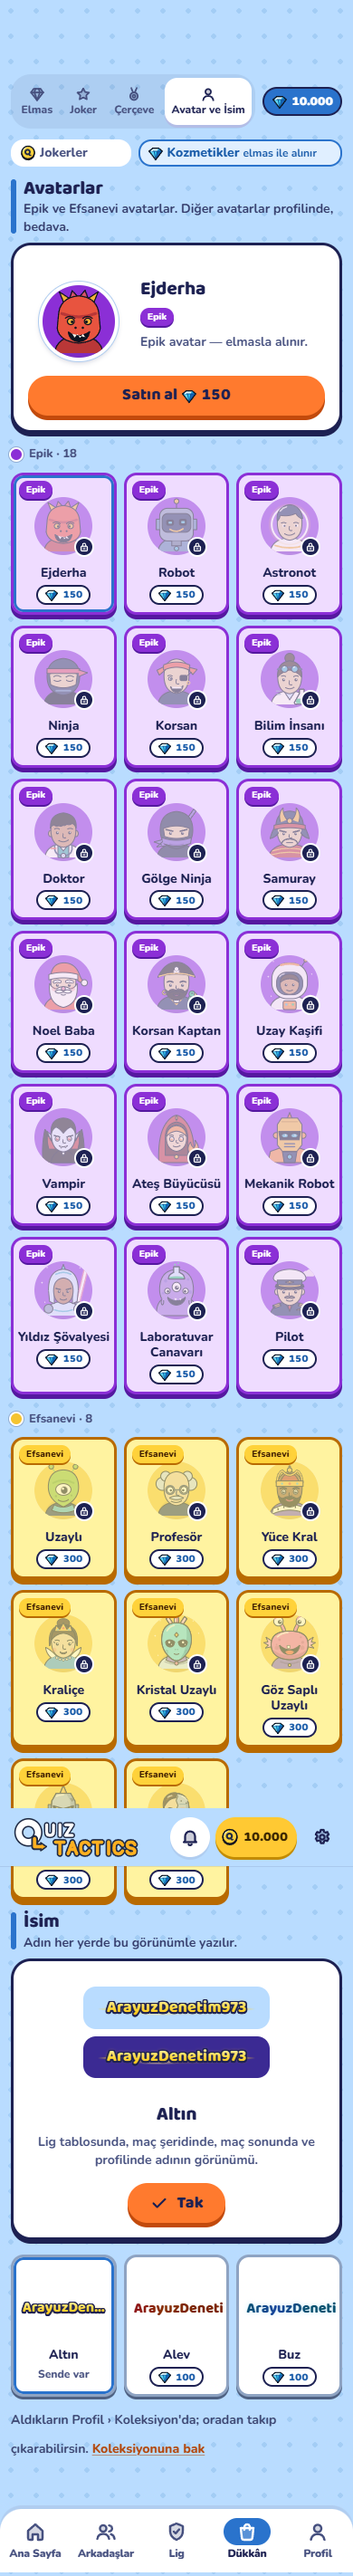
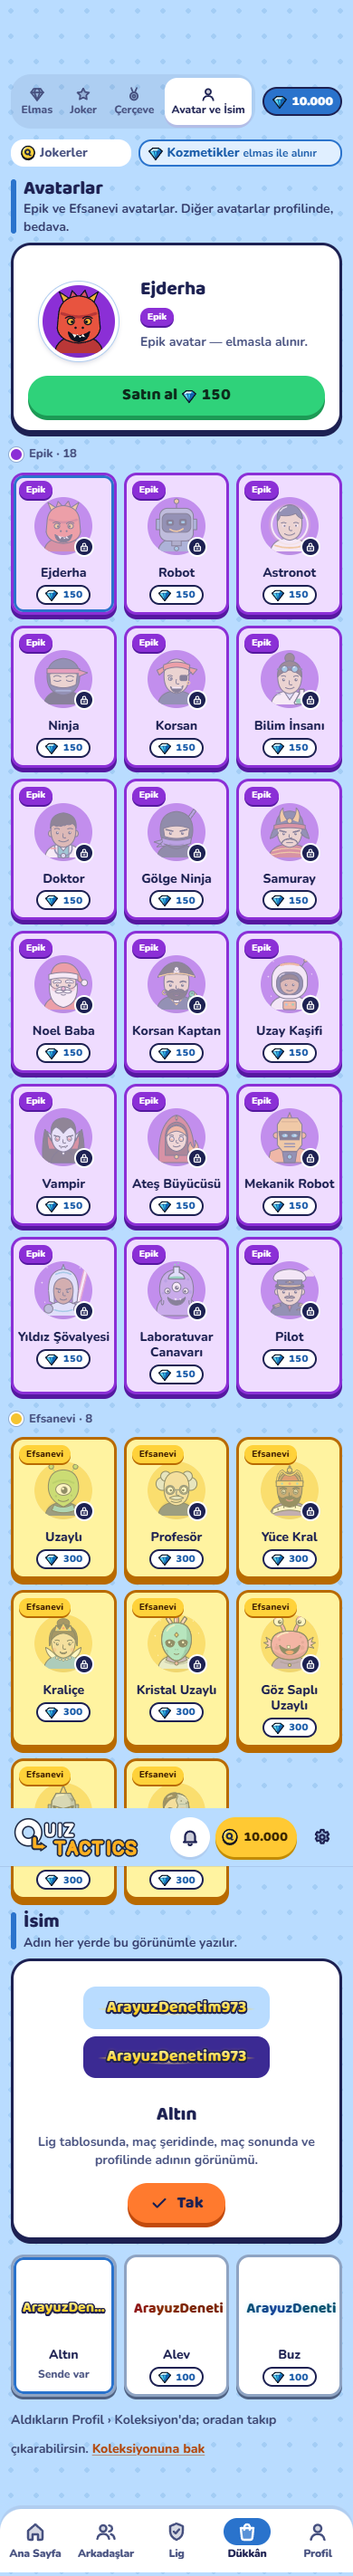
Dükkân: satın alma düğmeleri yeşil (QtDugme tur=dogru) — joker 1×/paket/kilit, kozmetik, onay penceresi [progress-yok]
Claude-Session: https://claude.ai/code/session_01WZTudwjqSPBt55B1FFhjVd

Changed region(s): [[0.0923, 0.1237, 0.9231, 0.1856]]

diff --git a/oyun/pages/JokerDukkani.jsx b/oyun/pages/JokerDukkani.jsx
@@ -617,7 +617,7 @@ export default function JokerDukkani() {
                         <div className="qt-dk-skill-al">
                           {kilitli ? (
                             <QtDugme
-                              tur="birincil"
+                              tur="dogru"
                               boyut="k"
                               devreDisi={levelYetmez}
                               yukleniyor={alinan === `kilit:${tur}`}
@@ -638,6 +638,7 @@ export default function JokerDukkani() {
                             <>
                               {tekVar && (
                                 <QtDugme
+                                  tur="dogru"
                                   boyut="k"
                                   devreDisi={jokerSerbest || yetmez}
                                   yukleniyor={alinan === `tek:${tur}`}
@@ -722,6 +723,7 @@ export default function JokerDukkani() {
                         </ul>
                         {/* Düğme PASİF DEĞİL: coin yetmezse basınca söyler ve "Coin nasıl kazanılır?" bölümüne götürür. */}
                         <QtDugme
+                          tur="dogru"
                           boyut="k"
                           tamGenislik
                           devreDisi={jokerSerbest}
@@ -917,6 +919,7 @@ export default function JokerDukkani() {
                           {bonus > 0 && <span className="qt-kucuk qt-dk-coin-ek">{tt("+{n} bonus elmas", { n: sayiBicim(bonus) })}</span>}
                           <span className="qt-kucuk qt-soluk qt-dk-coin-ad">{ttSunucu(p.ad) || f?.ad}</span>
                           <QtDugme
+                            tur="dogru"
                             boyut="k"
                             tamGenislik
                             devreDisi={!alinabilir}

diff --git a/oyun/components/DukkanKozmetik.jsx b/oyun/components/DukkanKozmetik.jsx
@@ -314,7 +314,7 @@ function KozmetikEylemDugmesi({ c, sahipHesap, eylem }) {
           ) : !takilir && (c.sahip || sahipHesap) ? (
             <QtDugme tur="ikincil" tamGenislik devreDisi ikon="onay">{c.sahip ? tt("Sende var") : tt("Kullanılabilir")}</QtDugme>
           ) : c.satilik && c.fiyat != null ? (
-            <QtDugme tamGenislik yukleniyor={islem === "al"} onClick={onayAc} aria-haspopup="dialog"
+            <QtDugme tur="dogru" tamGenislik yukleniyor={islem === "al"} onClick={onayAc} aria-haspopup="dialog"
                      aria-label={tt("{ad} satın al — {n} elmas", { ad: kozmetikAdi(c), n: c.fiyat })}>
               <span className="qt-dc-fiyat">{tt("Satın al")} <ElmasFiyat fiyat={c.fiyat} boyut={18} /></span>
             </QtDugme>
@@ -558,7 +558,7 @@ export function DukkanAvatarlar({ avatarlar, sahipHesap = false, yenile, elmasYe
               {tt("Tak")}
             </QtDugme>
           ) : !c.kapali && c.fiyat_elmas != null ? (
-            <QtDugme tamGenislik yukleniyor={islem === "al"} onClick={() => { dokunus(); setOnayAcik(true); }} aria-haspopup="dialog">
+            <QtDugme tur="dogru" tamGenislik yukleniyor={islem === "al"} onClick={() => { dokunus(); setOnayAcik(true); }} aria-haspopup="dialog">
               <span className="qt-dc-fiyat">{tt("Satın al")} <ElmasFiyat fiyat={c.fiyat_elmas} boyut={18} /></span>
             </QtDugme>
           ) : (

diff --git a/oyun/tasarim/bilesenler.css b/oyun/tasarim/bilesenler.css
@@ -152,6 +152,8 @@
 }
 .qt-dugme--ikincil { --_z: var(--qt-yuzey); --_y: var(--qt-metin); --_d: var(--qt-cizgi); }
 .qt-dugme--mor, .qt-dugme--mavi { --_z: var(--qt-ikinci); --_y: var(--qt-ikinci-yazi); --_d: var(--qt-ikinci-dudak); }
+/* Renk rolleri (7 Eki 2026): AL / satın al / kabul = YEŞİL (başarı). Turuncu ana eylem (Oyna/Klasik) olarak kalır. */
+.qt-dugme--dogru { --_z: var(--qt-dogru); --_y: var(--qt-dogru-yazi); --_d: var(--qt-dogru-dudak); }
 .qt-dugme--tehlike { --_z: var(--qt-yanlis); --_y: var(--qt-yanlis-yazi); --_d: var(--qt-yanlis-dudak); }
 .qt-dugme--hayalet { --_z: transparent; --_y: currentColor; --_d: transparent; --_dudak: 0px; text-decoration: underline; text-underline-offset: 3px; text-decoration-thickness: 2px; }
 .qt-dugme--k { min-height: var(--qt-dokunma); padding: 0 var(--qt-b-4); font-size: var(--qt-y-m); --_dudak: 4px; }

diff --git a/oyun/components/DukkanAuralar.jsx b/oyun/components/DukkanAuralar.jsx
@@ -150,7 +150,7 @@ export default function DukkanAuralar({ elmasYetmedi, onBilgi, onHata, elmasBaki
             ) : c.sahip ? (
               <QtDugme tamGenislik ikon="onay" yukleniyor={islem === "tak"} onClick={() => { dokunus(); tak(c.anahtar); }}>{tt("Tak")}</QtDugme>
             ) : c.satilik && c.fiyat != null ? (
-              <QtDugme tamGenislik yukleniyor={islem === "al"} onClick={() => { dokunus(); setOnayAcik(true); }}
+              <QtDugme tur="dogru" tamGenislik yukleniyor={islem === "al"} onClick={() => { dokunus(); setOnayAcik(true); }}
                        aria-haspopup="dialog"
                        aria-label={tt("{ad} arka planını satın al — {n} elmas", { ad: ad(c), n: c.fiyat })}>
                 <span className="qt-dc-fiyat">{tt("Satın al")} <ElmasFiyat fiyat={c.fiyat} boyut={18} /></span>

diff --git a/oyun/components/JokerSatinAlModal.jsx b/oyun/components/JokerSatinAlModal.jsx
@@ -101,7 +101,7 @@ export default function JokerSatinAlModal({
           <QtDugme tur="ikincil" onClick={onKapat} devreDisi={calisiyor}>
             {tt("Vazgeç")}
           </QtDugme>
-          <QtDugme onClick={onayla} devreDisi={!yeterli || calisiyor} yukleniyor={calisiyor} data-qt-ilk-odak>
+          <QtDugme tur="dogru" onClick={onayla} devreDisi={!yeterli || calisiyor} yukleniyor={calisiyor} data-qt-ilk-odak>
             {calisiyor ? tt("Alınıyor…") : onayMetni ?? (yalnizAl ? tt("Al") : tt("Al ve kullan"))}
           </QtDugme>
         </div>

diff --git a/oyun/tasarim/ekranlar/dukkan-magaza.css b/oyun/tasarim/ekranlar/dukkan-magaza.css
@@ -463,3 +463,7 @@
   .qt-dk-skill-rozetler { margin-top: 0; }
   .qt-dk-skill-al > .qt-dugme { min-height: var(--qt-dokunma); }
 }
+
+/* Renk rolleri (Aşama 2, 7 Eki 2026): satın alma = YEŞİL (QtDugme tur="dogru"); 10'lu paket beyaz kalır ama yeşil dudak
+   alır — iki düğme aynı eylem ailesi. Coin simgesi altın (CoinIkon), sayı koyu. */
+.qt-dk-skill-al > .qt-dugme--ikincil:not(:disabled):not([aria-disabled="true"]) { --_d: var(--qt-dogru-dudak); }
